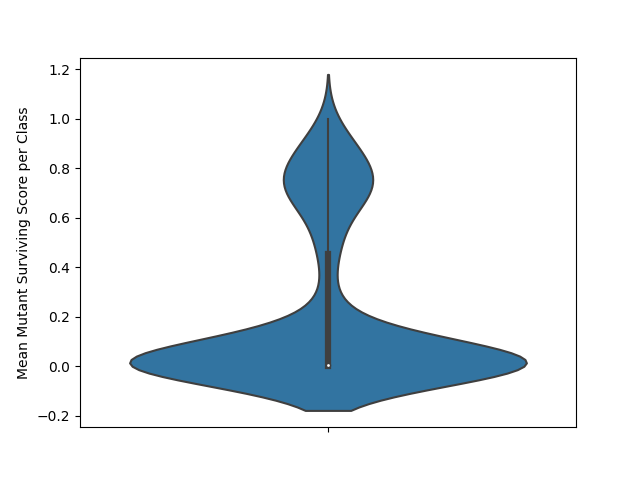
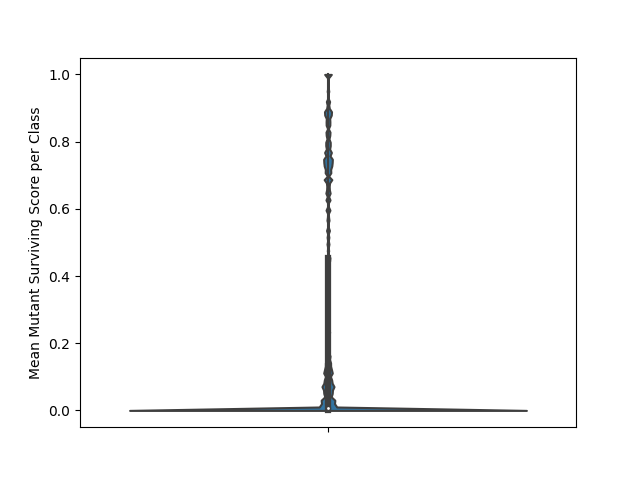
Fixed an issue with the violin plot

diff --git a/j2py/violin_plot_mutant.py b/j2py/violin_plot_mutant.py
@@ -61,26 +61,26 @@ if __name__ == "__main__":
         os.makedirs("plots", exist_ok=True)
 
     plt.figure()
-    violin = sns.violinplot(data=grouped, y="Mutant")
+    violin = sns.violinplot(data=grouped, y="Mutant", cut=0, bw=0.01)
     violin.set(ylabel="Number of Generated Mutants per Class")
     plt.savefig('plots/violin_number_mutants.png')
 
     plt.figure()
-    violin = sns.violinplot(data=grouped, y="Translated")
+    violin = sns.violinplot(data=grouped, y="Translated", cut=0, bw=0.01)
     violin.set(ylabel="Percentage of Translated Mutants per Class")
     plt.savefig('plots/violin_number_translated_mutants.png')
 
     plt.figure()
-    violin = sns.violinplot(data=grouped, y="Compiled")
+    violin = sns.violinplot(data=grouped, y="Compiled", cut=0, bw=0.01)
     violin.set(ylabel="Percentage of Compiled Mutants per Class")
     plt.savefig('plots/violin_number_compiled_mutants.png')
 
     plt.figure()
-    violin = sns.violinplot(data=grouped, y="Runnable")
+    violin = sns.violinplot(data=grouped, y="Runnable", cut=0, bw=0.01)
     violin.set(ylabel="Percentage of Runnable Mutants per Class")
     plt.savefig('plots/violin_number_runnable_mutants.png')
 
     plt.figure()
-    violin = sns.violinplot(data=grouped, y="Success")
+    violin = sns.violinplot(data=grouped, y="Success", cut=0, bw=0.01)
     violin.set(ylabel="Percentage of Success Mutants per Class")
     plt.savefig('plots/violin_number_success_mutants.png')

diff --git a/j2py/violin_plot_mtss.py b/j2py/violin_plot_mtss.py
@@ -17,13 +17,13 @@ if __name__ == "__main__":
     grouped = grouped.rename(columns={"equal_results": "Surviving Score"})
 
     plt.figure()
-    violin = sns.violinplot(data=grouped, y="Surviving Score")
+    violin = sns.violinplot(data=grouped, y="Surviving Score", cut=0, bw=0.01)
     violin.set(ylabel="Mutant Surviving Score")
     plt.savefig('plots/violin_mtss_mutant.png')
 
     grouped = grouped.groupby('class')["Surviving Score"].mean().to_frame("Surviving Score")
 
     plt.figure()
-    violin = sns.violinplot(data=grouped, y="Surviving Score")
+    violin = sns.violinplot(data=grouped, y="Surviving Score", cut=0, bw=0.01)
     violin.set(ylabel="Mean Mutant Surviving Score per Class")
     plt.savefig('plots/violin_mtss.png')
